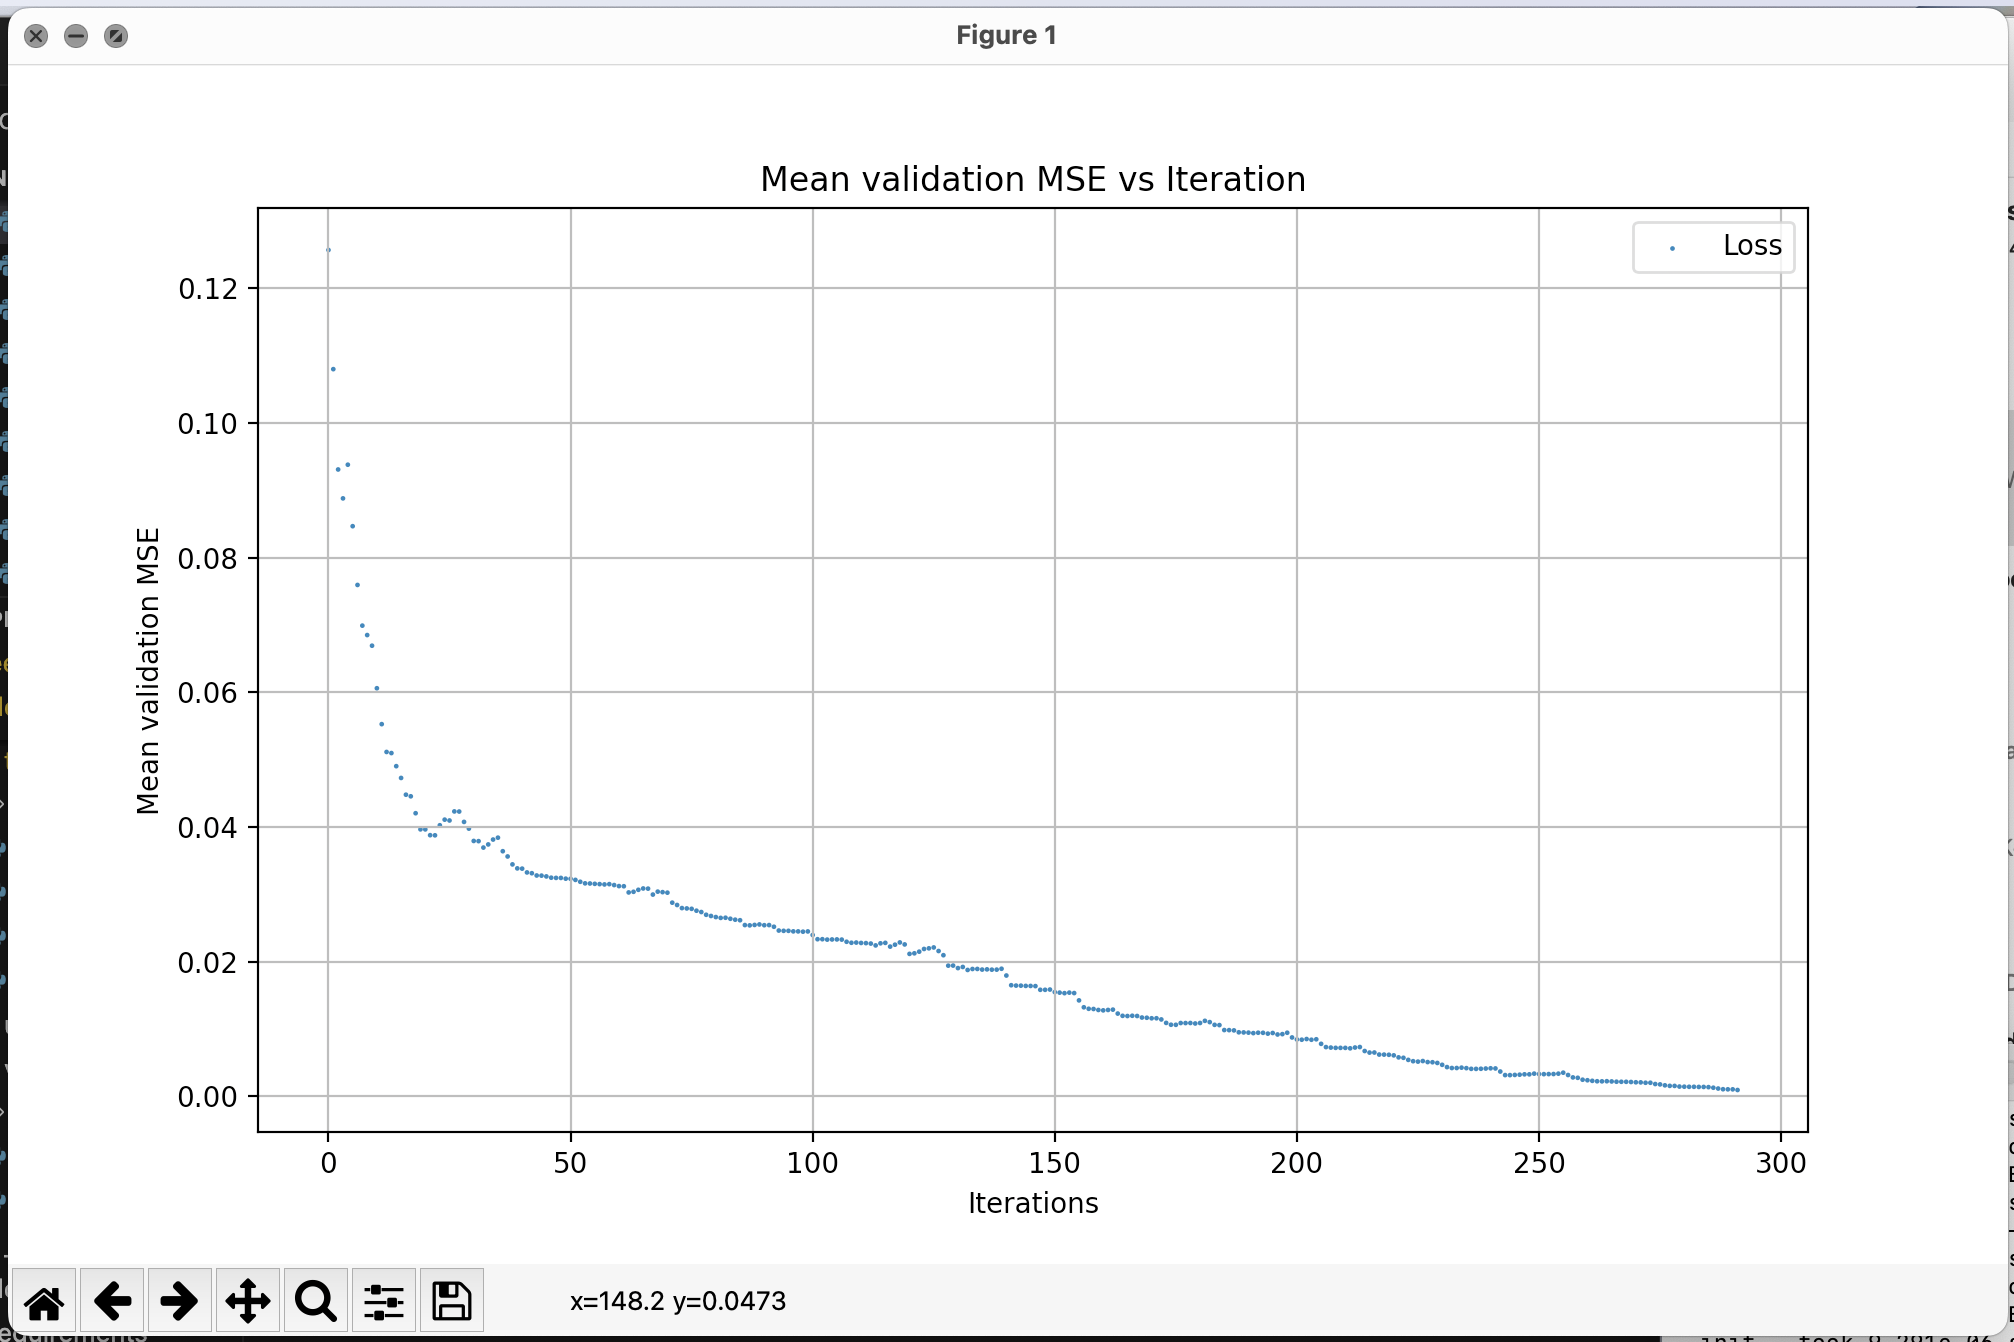
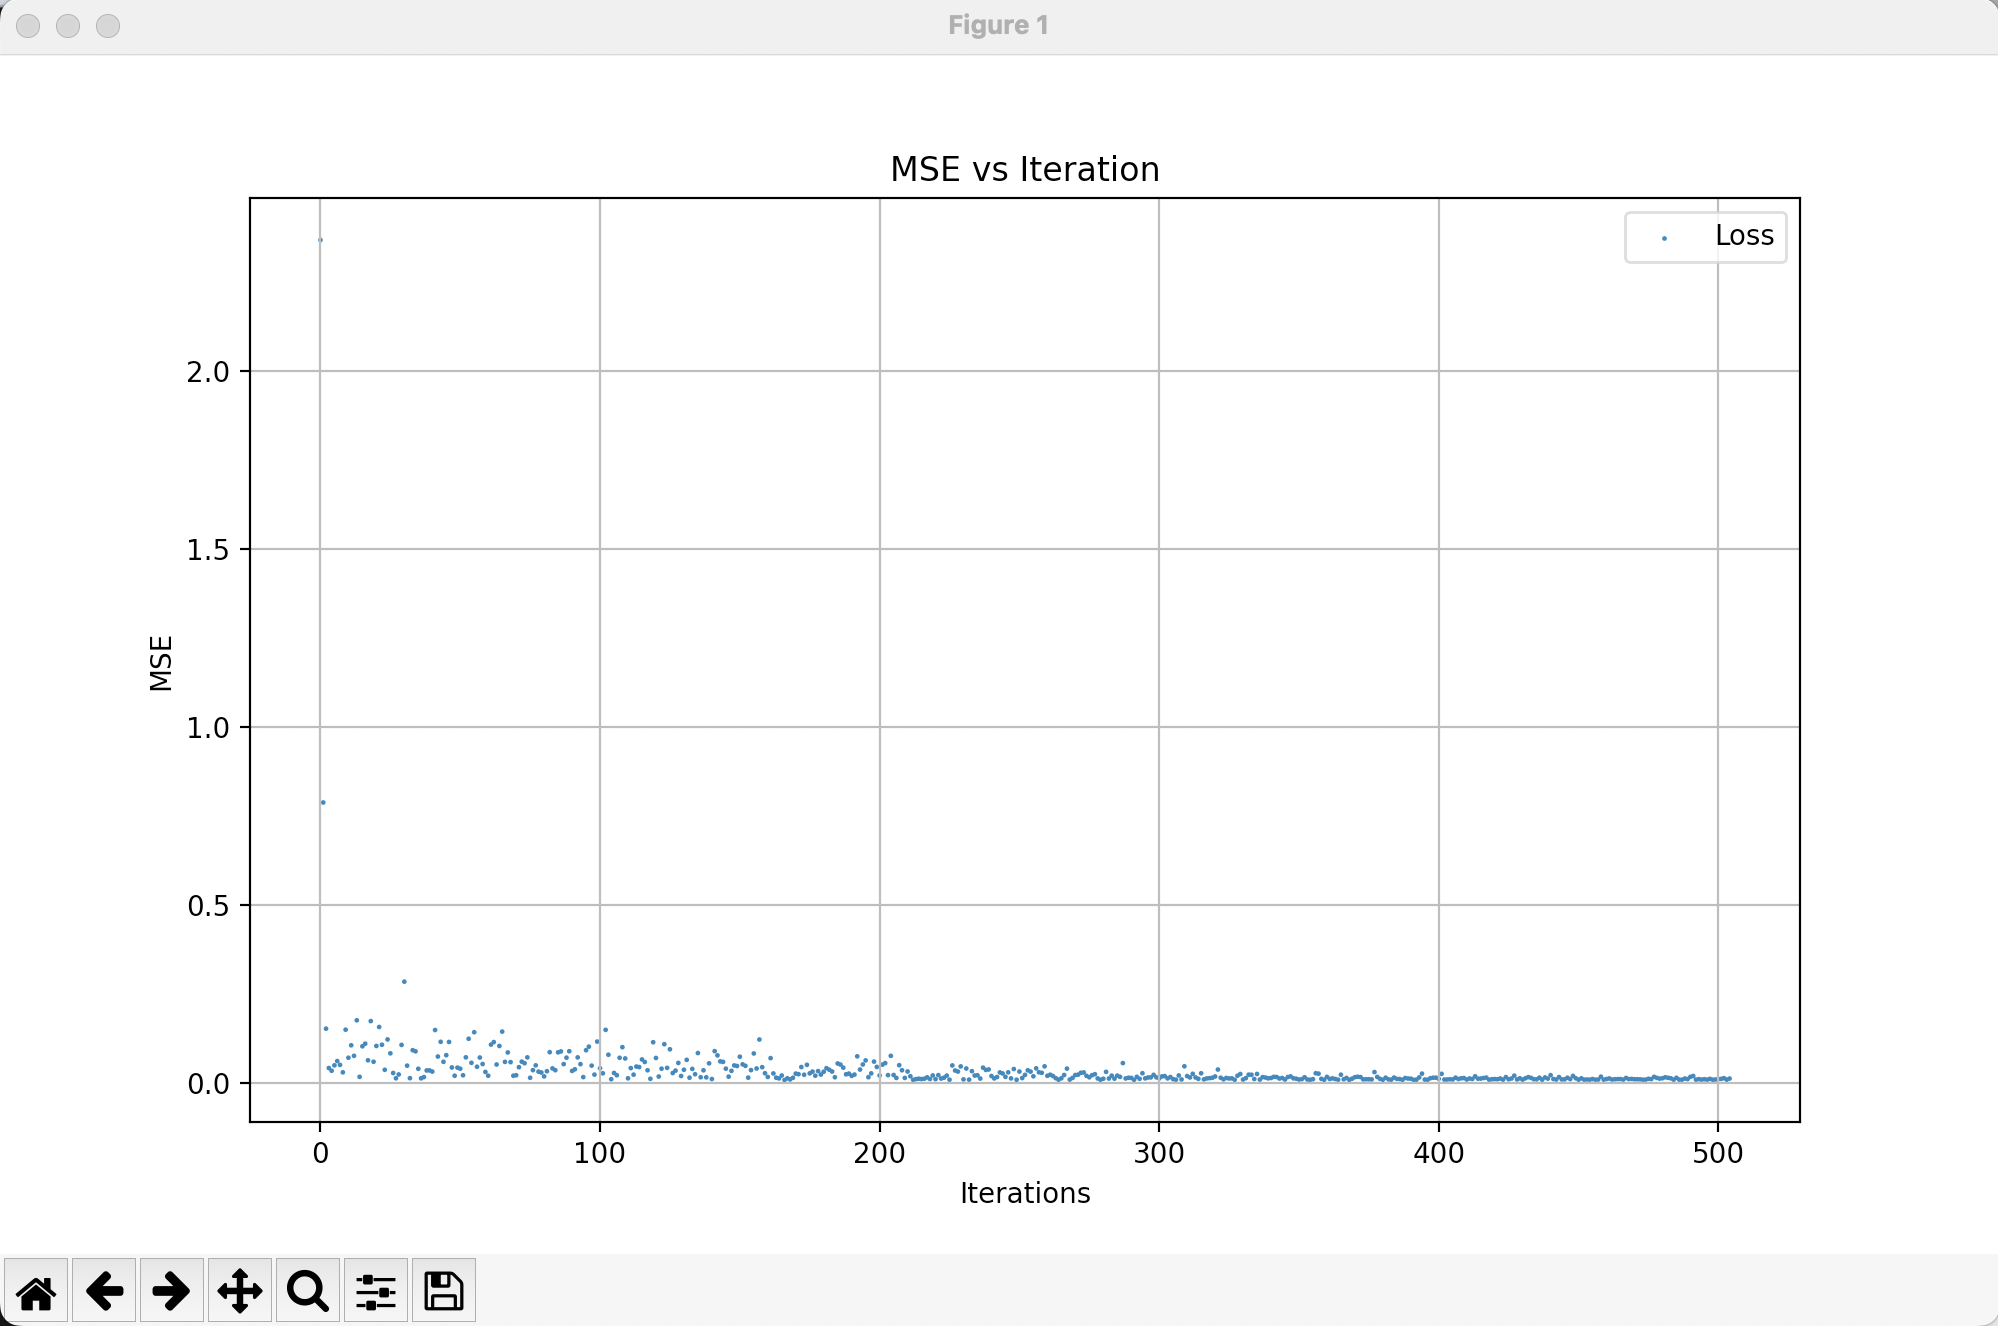
readme

diff --git a/example.py b/example.py
@@ -4,26 +4,22 @@ from deepl import visualization
 import autograd.numpy as np
 
 # Example
+
+# Define structure
 structure = (3, 3, 3)
 nn = core.Dense_ANN(structure, [core.relu, core.fixed_point])
 
+# Training data
 data_size = 16000
 train_x = [np.random.rand(3) for _ in range(data_size)]
-train_y = 2 * train_x
+train_y = 100 * train_x
 
+# Validation data
 validate_size = 64
 validate_x = [np.random.rand(3) for _ in range(validate_size)]
-validate_y = 2 * validate_x
+validate_y = 100 * validate_x
 
-"""
-def lr_schedule(epoch):
-    epoch_mod = epoch % 1000
-    if 0 <= epoch_mod <= 500:
-        return 0.1
-    else:
-        return 0.01
-"""
-
+# Optimizer and parameters
 trainer = training.SGD_Optimizer(nn,
                                  loss=training.mse,
                                  init=core.uniform_init,
@@ -38,7 +34,9 @@ trainer = training.SGD_Optimizer(nn,
                                  reg=training.lasso,
                                  reg_params=(0.001,))
 
+# Train
 weights_tensor, loss_values = trainer.train(train_x, train_y, data_size)
 
+# Plots
 visualization.loss_plot(trainer, 0.5, 'MSE')
 visualization.mean_validation_plot(trainer, 0.5, 'MSE')

diff --git a/README.md b/README.md
@@ -41,21 +41,22 @@ from deepl import visualization
 import autograd.numpy as np
 
 # Example
-# Structure
-structure = (2, 2, 2)
+
+# Define structure
+structure = (3, 3, 3)
 nn = core.Dense_ANN(structure, [core.relu, core.fixed_point])
 
 # Training data
 data_size = 16000
-train_x = [np.random.rand(2) for _ in range(data_size)]
-train_y = 2 * train_x
+train_x = [np.random.rand(3) for _ in range(data_size)]
+train_y = 100 * train_x
 
 # Validation data
 validate_size = 64
-validate_x = [np.random.rand(2) for _ in range(validate_size)]
-validate_y = 2 * validate_x
+validate_x = [np.random.rand(3) for _ in range(validate_size)]
+validate_y = 100 * validate_x
 
-# Optimiser
+# Optimizer and parameters
 trainer = training.SGD_Optimizer(nn,
                                  loss=training.mse,
                                  init=core.uniform_init,
@@ -63,15 +64,17 @@ trainer = training.SGD_Optimizer(nn,
                                  start_lr=0.1,
                                  callbacks=[training.stop_loss_min,
                                             training.checkpoints],
-                                 callback_args=[(10e-4,),
+                                 callback_args=[(10e-3,),
                                                 (250,)],
                                  validate_x=validate_x,
-                                 validate_y=validate_y)
+                                 validate_y=validate_y,
+                                 reg=training.lasso,
+                                 reg_params=(0.001,))
 
 # Train
 weights_tensor, loss_values = trainer.train(train_x, train_y, data_size)
 
-# Plot
+# Plots
 visualization.loss_plot(trainer, 0.5, 'MSE')
 visualization.mean_validation_plot(trainer, 0.5, 'MSE')
 ```
@@ -81,11 +84,11 @@ visualization.mean_validation_plot(trainer, 0.5, 'MSE')
     <img src="images/img2.png" alt="Image 2" style="width: 48%;">
 </div>
 
-Performance for this specific case( (2,2,2) ) : 
-__init__ took 7.958e-06 seconds
-uniform_init took 2.271e-05 seconds
-__init__ took 5.629e-05 seconds
-train took 1.820e-01 seconds
+Performance for this specific case( (3,3,3) ) : 
+__init__ took 8.833e-06 seconds
+uniform_init took 2.813e-05 seconds
+__init__ took 6.354e-05 seconds
+train took 9.781e-01 seconds
 
 
 
